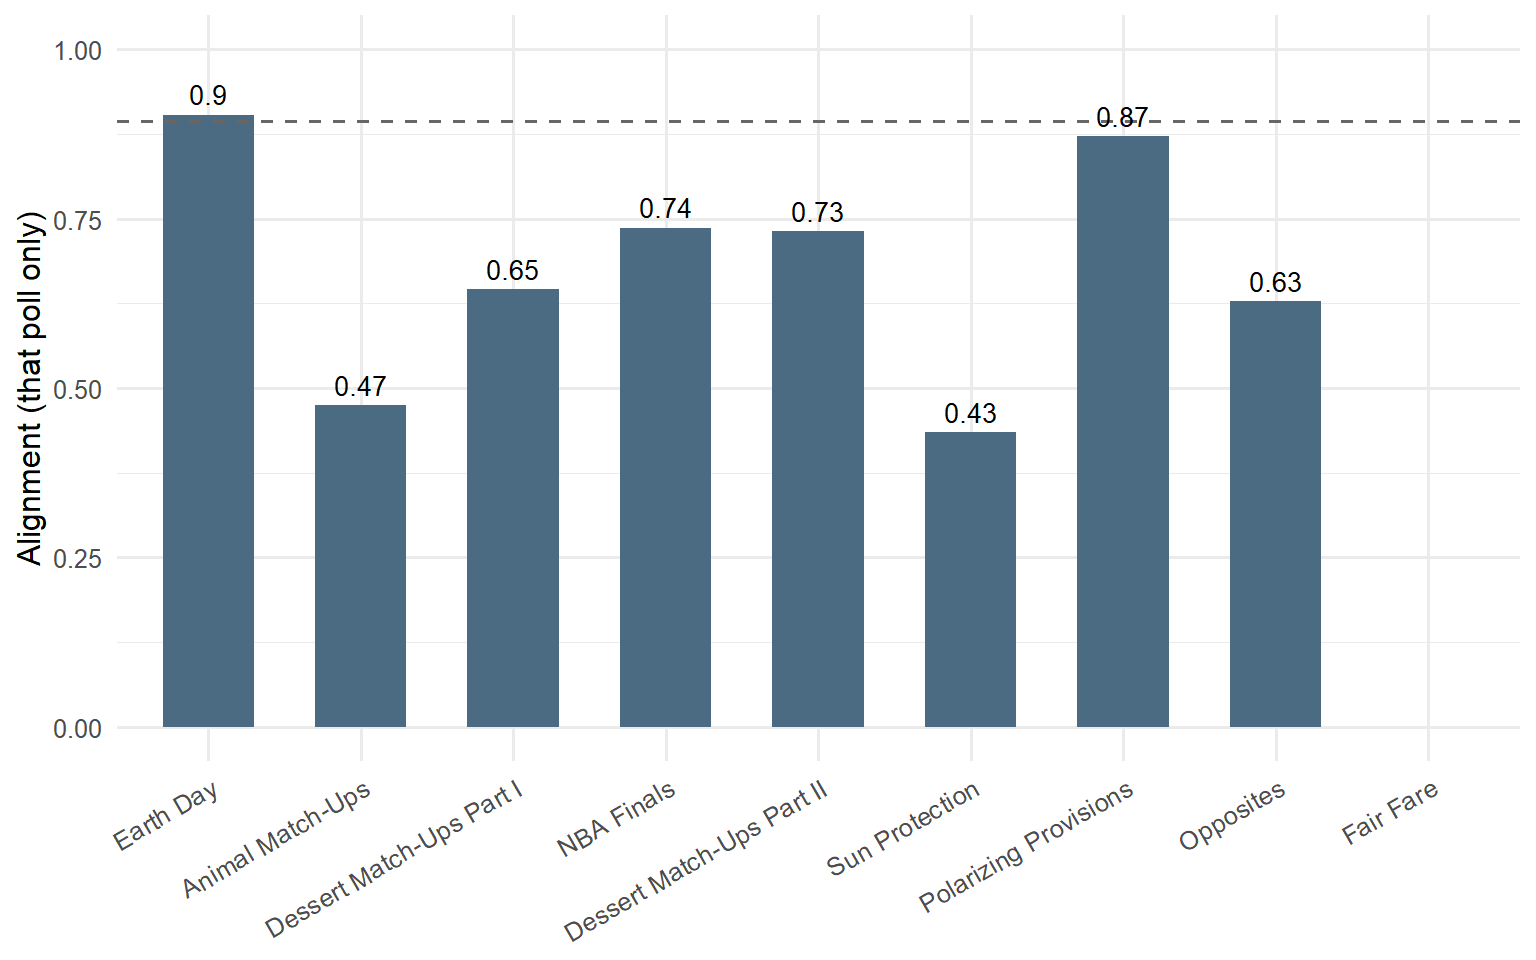
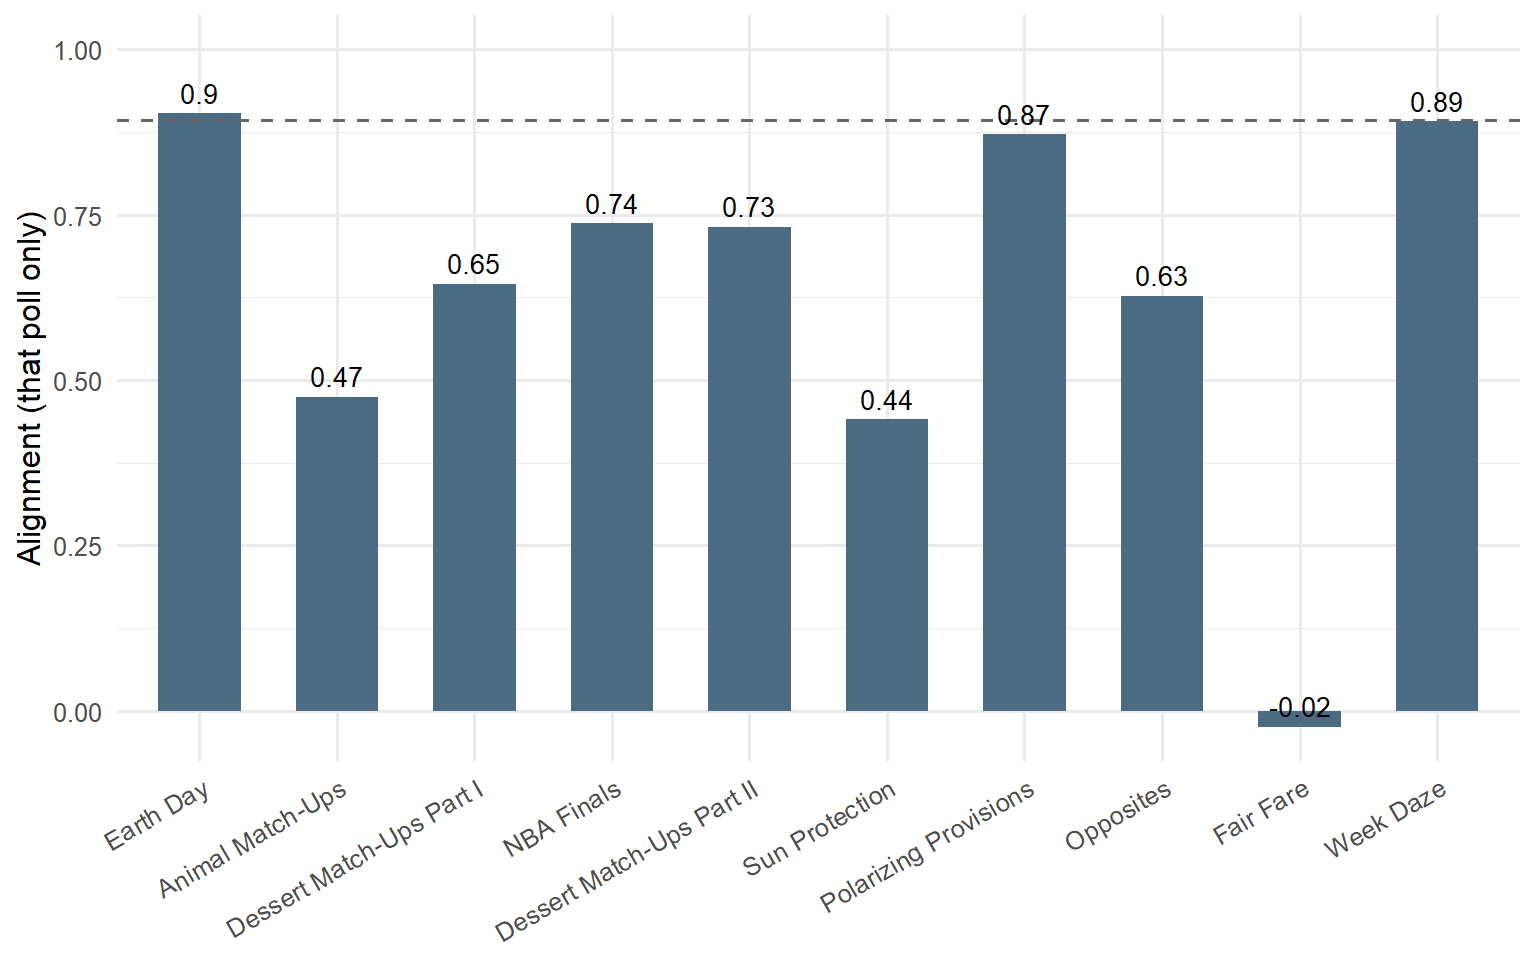
alignment index bar chart to include n>2 polls

diff --git a/docs/votingstatistics.html b/docs/votingstatistics.html
@@ -257,7 +257,7 @@ grid-auto-rows: minmax(0, 1fr);">
 <div class="card html-fill-item html-fill-container bslib-card" data-fill="false" data-bslib-card-init="" data-require-bs-caller="card()" data-full-screen="false">
 <div class="card-body html-fill-item html-fill-container">
 <p>Cumulative correlation between HQ’s and RTP’s vote shares, across every option RTP has voted on since it joined the poll at Earth Day.</p>
-<p><strong><em>0.89</em></strong> cumulative Alignment Index (Earth Day → Fair Fare)</p>
+<p><strong><em>0.89</em></strong> cumulative Alignment Index (Earth Day → Week Daze)</p>
 </div>
 <bslib-tooltip placement="auto" bsoptions="[]" data-require-bs-version="5" data-require-bs-caller="tooltip()">
     <template>Expand</template>
